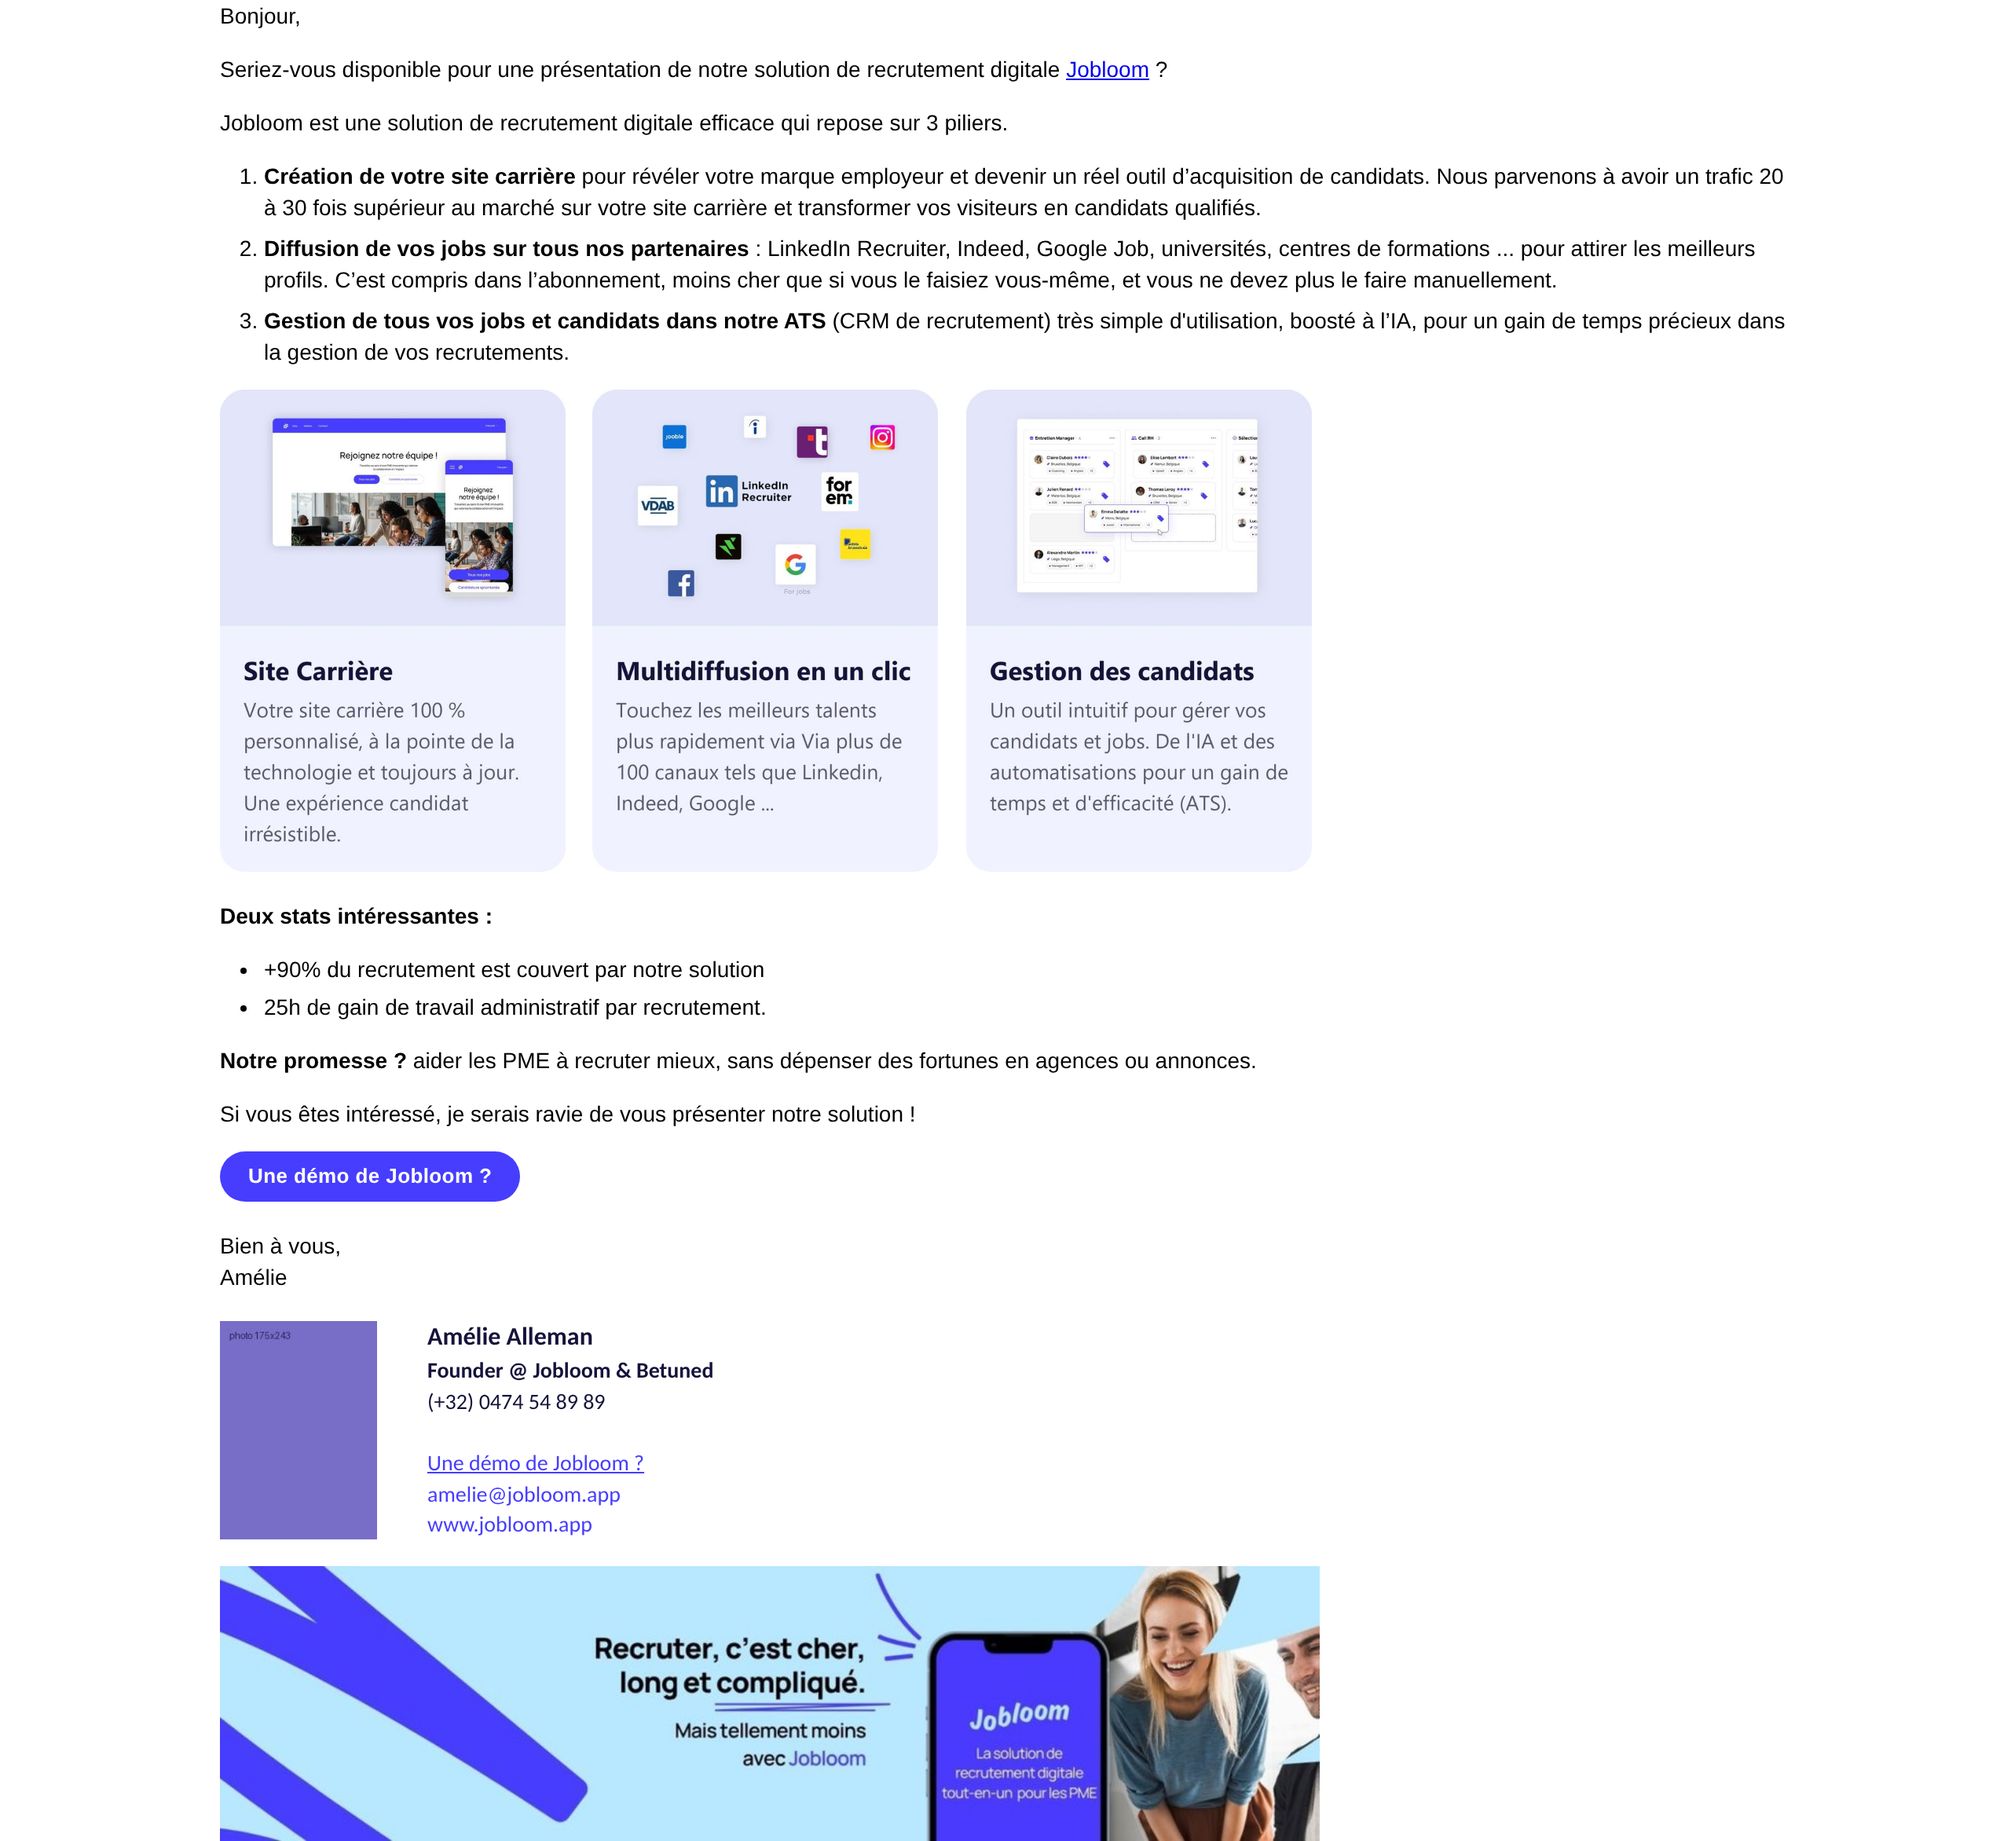
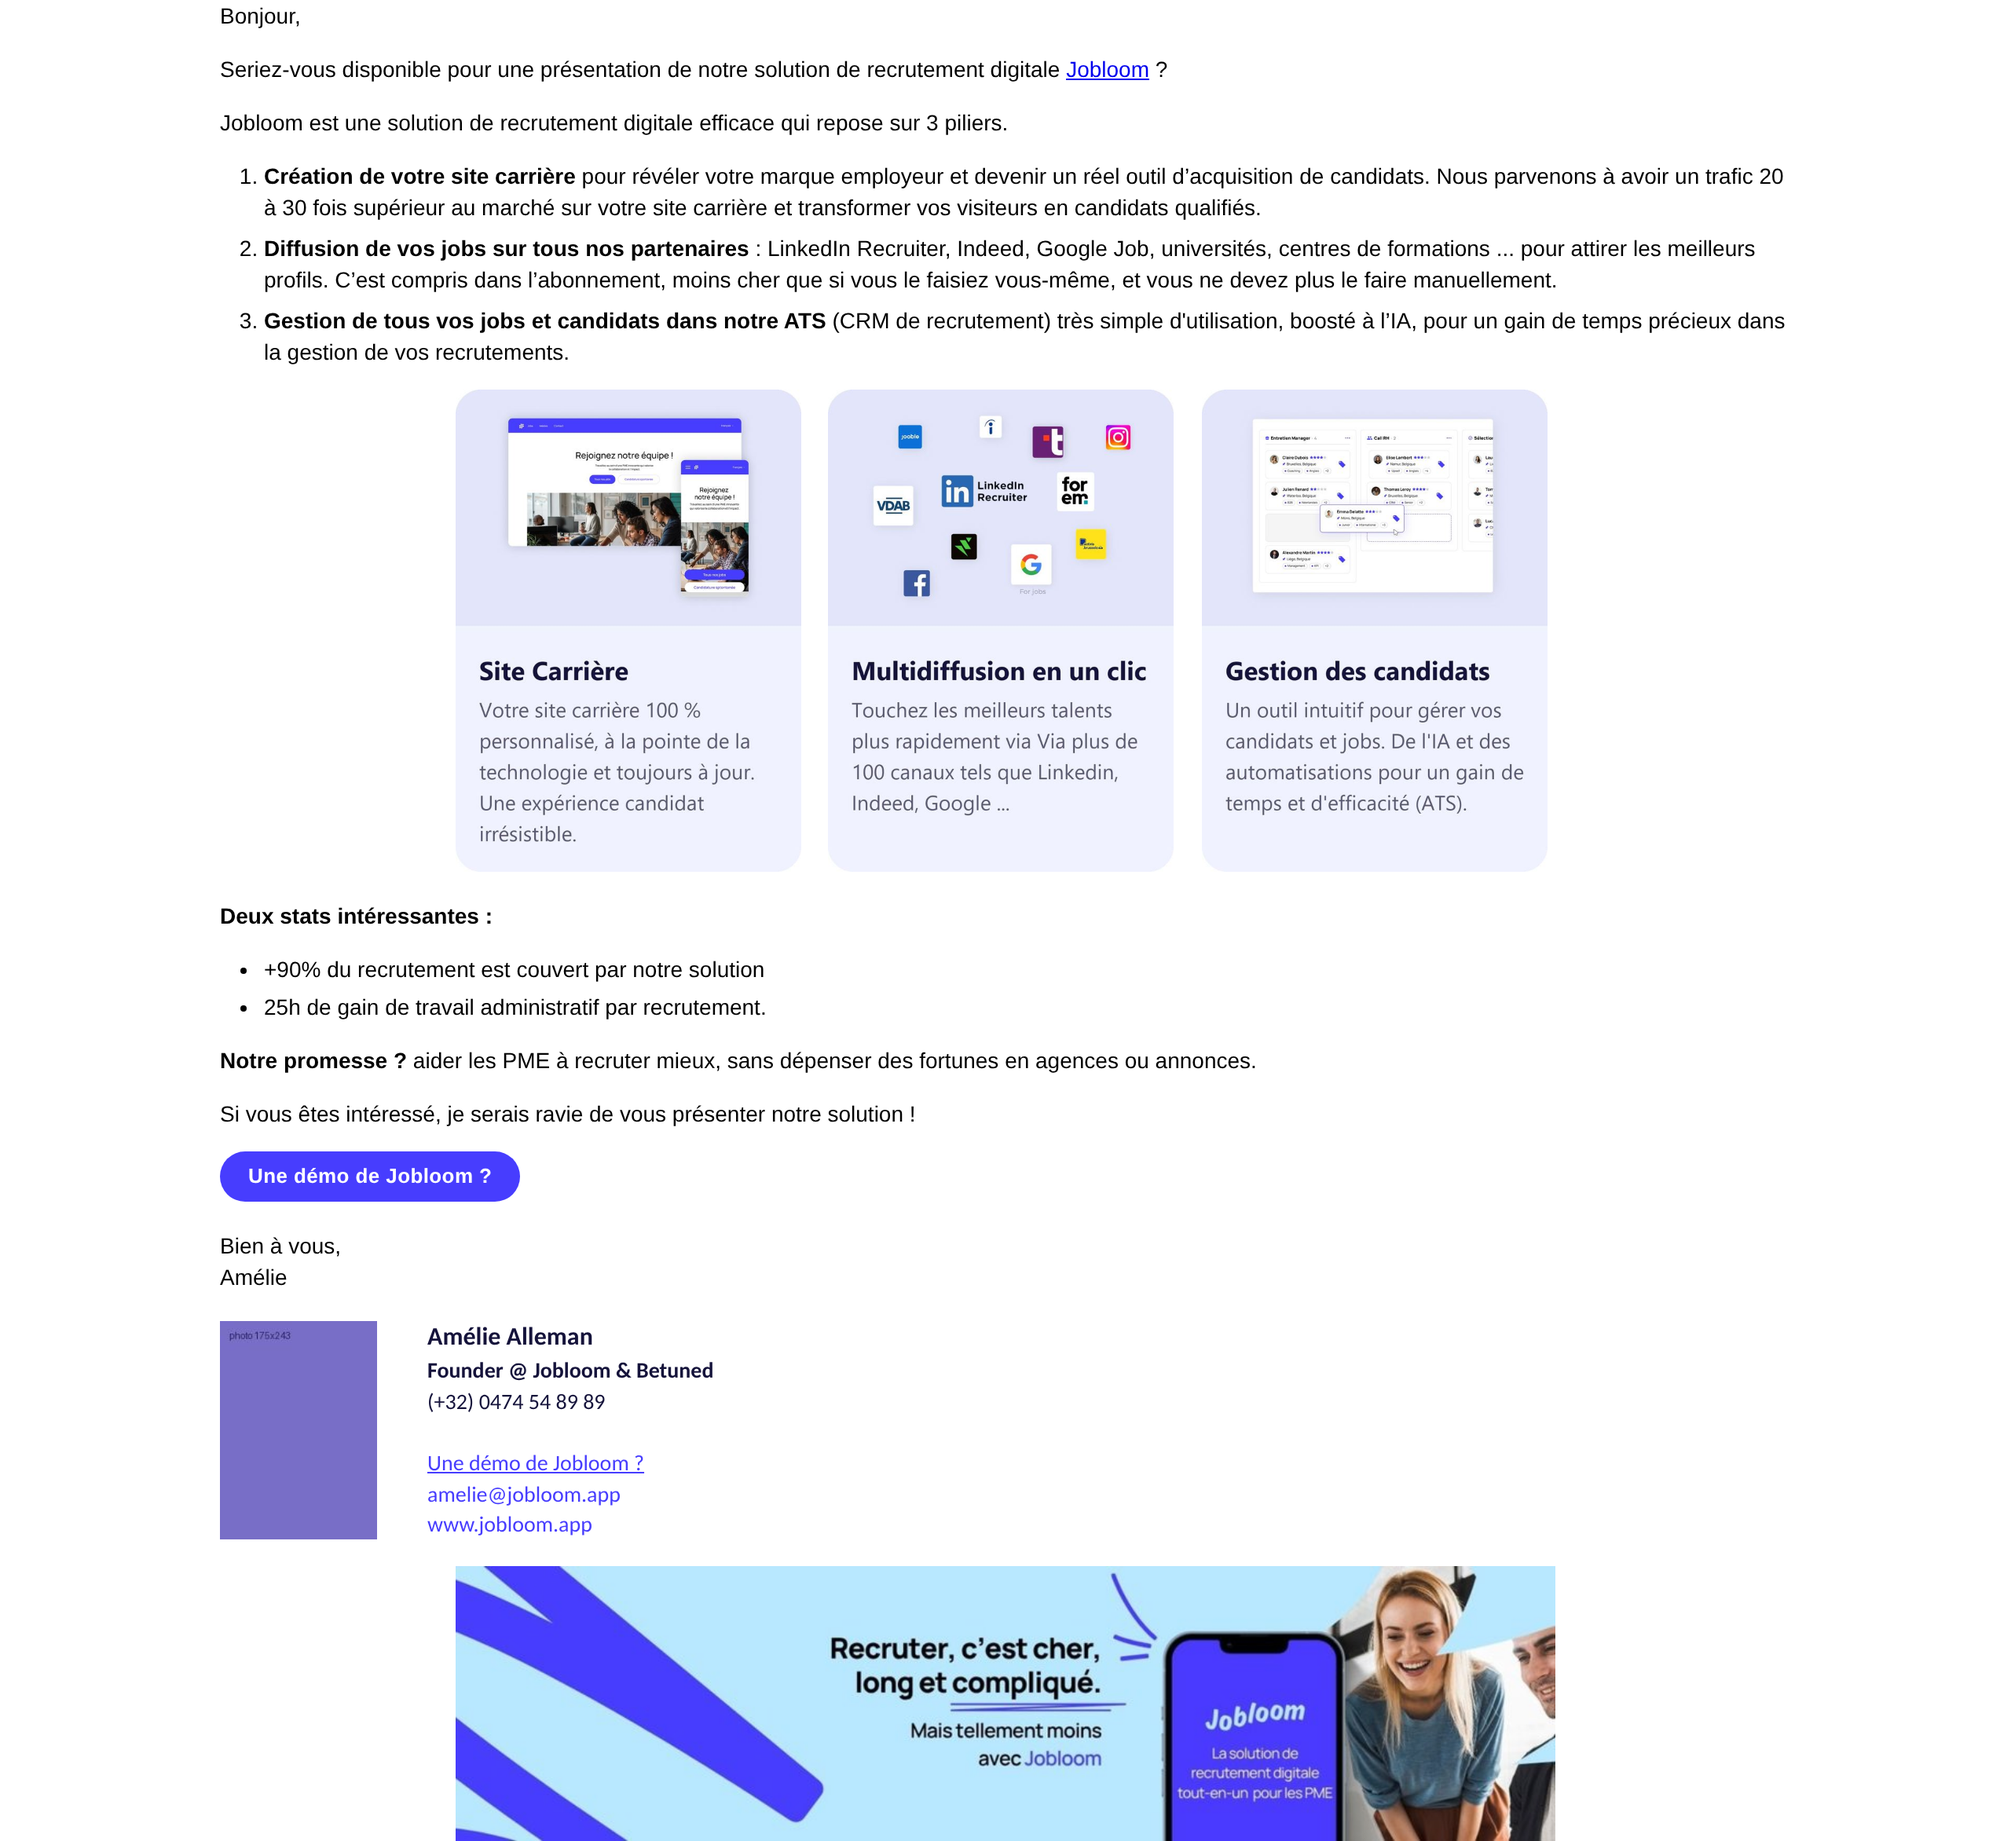
Email Amélie : images centrées, marges égales à gauche et à droite
Claude-Session: https://claude.ai/code/session_01XTeiUwKp5X2MxE8FSKHjU9

Changed region(s): [[0.0938, 0.1869, 0.7812, 0.4672], [0.0938, 0.8409, 0.7812, 1.0]]

diff --git a/email-livrable/email_1st_Amelie_final.html b/email-livrable/email_1st_Amelie_final.html
@@ -39,7 +39,7 @@ li{margin-left:0 !important;}</style>
 <li style="margin:0 0 6px 0"><b>Diffusion de vos jobs sur tous nos partenaires&nbsp;</b>: LinkedIn Recruiter, Indeed, Google Job, universités, centres de formations ... pour attirer les meilleurs profils. C’est compris dans l’abonnement, moins cher que si vous le faisiez vous-même, et vous ne devez plus le faire manuellement.</li>
 <li style="margin:0"><b>Gestion de tous vos jobs et candidats dans notre ATS</b> (CRM de recrutement) très simple d'utilisation, boosté à l’IA, pour un gain de temps précieux dans la gestion de vos recrutements.</li>
 </ol>
-<table role="presentation" class="cards" cellpadding="0" cellspacing="0" border="0" width="100%" style="border-collapse:collapse;width:100%;max-width:700px;margin:4px 0 18px 0"><tr><td class="cardtd" width="33%" valign="top" style="width:33.33%;padding:0 8px 0 0"><a href="https://www.jobloom.app/" style="text-decoration:none"><!--[if mso]><img src="https://jobloom-landing-pages-massimoharnisfeger-hues-projects.vercel.app/signature/pilier-1.jpg" width="220" height="307" alt="Site Carrière" style="display:block;width:220px;height:307px;border:0"><![endif]--><!--[if !mso]><!--><img src="https://jobloom-landing-pages-massimoharnisfeger-hues-projects.vercel.app/signature/pilier-1.jpg" width="660" height="921" alt="Site Carrière" style="display:block;width:100%;max-width:220px;height:auto;border:0"><!--<![endif]--></a></td><td class="cardtd" width="33%" valign="top" style="width:33.33%;padding:0 4px"><a href="https://www.jobloom.app/" style="text-decoration:none"><!--[if mso]><img src="https://jobloom-landing-pages-massimoharnisfeger-hues-projects.vercel.app/signature/pilier-2.jpg" width="220" height="307" alt="Multidiffusion en un clic" style="display:block;width:220px;height:307px;border:0"><![endif]--><!--[if !mso]><!--><img src="https://jobloom-landing-pages-massimoharnisfeger-hues-projects.vercel.app/signature/pilier-2.jpg" width="660" height="921" alt="Multidiffusion en un clic" style="display:block;width:100%;max-width:220px;height:auto;border:0"><!--<![endif]--></a></td><td class="cardtd" width="33%" valign="top" style="width:33.33%;padding:0 0 0 8px"><a href="https://www.jobloom.app/" style="text-decoration:none"><!--[if mso]><img src="https://jobloom-landing-pages-massimoharnisfeger-hues-projects.vercel.app/signature/pilier-3.jpg" width="220" height="307" alt="Gestion des candidats" style="display:block;width:220px;height:307px;border:0"><![endif]--><!--[if !mso]><!--><img src="https://jobloom-landing-pages-massimoharnisfeger-hues-projects.vercel.app/signature/pilier-3.jpg" width="660" height="921" alt="Gestion des candidats" style="display:block;width:100%;max-width:220px;height:auto;border:0"><!--<![endif]--></a></td></tr></table>
+<table role="presentation" class="cards" cellpadding="0" cellspacing="0" border="0" width="100%" align="center" style="border-collapse:collapse;width:100%;max-width:700px;margin:4px auto 18px auto"><tr><td class="cardtd" width="33%" valign="top" style="width:33.33%;padding:0 8px 0 0"><a href="https://www.jobloom.app/" style="text-decoration:none"><!--[if mso]><img src="https://jobloom-landing-pages-massimoharnisfeger-hues-projects.vercel.app/signature/pilier-1.jpg" width="220" height="307" alt="Site Carrière" style="display:block;width:220px;height:307px;border:0"><![endif]--><!--[if !mso]><!--><img src="https://jobloom-landing-pages-massimoharnisfeger-hues-projects.vercel.app/signature/pilier-1.jpg" width="660" height="921" alt="Site Carrière" style="display:block;width:100%;max-width:220px;height:auto;border:0"><!--<![endif]--></a></td><td class="cardtd" width="33%" valign="top" style="width:33.33%;padding:0 4px"><a href="https://www.jobloom.app/" style="text-decoration:none"><!--[if mso]><img src="https://jobloom-landing-pages-massimoharnisfeger-hues-projects.vercel.app/signature/pilier-2.jpg" width="220" height="307" alt="Multidiffusion en un clic" style="display:block;width:220px;height:307px;border:0"><![endif]--><!--[if !mso]><!--><img src="https://jobloom-landing-pages-massimoharnisfeger-hues-projects.vercel.app/signature/pilier-2.jpg" width="660" height="921" alt="Multidiffusion en un clic" style="display:block;width:100%;max-width:220px;height:auto;border:0"><!--<![endif]--></a></td><td class="cardtd" width="33%" valign="top" style="width:33.33%;padding:0 0 0 8px"><a href="https://www.jobloom.app/" style="text-decoration:none"><!--[if mso]><img src="https://jobloom-landing-pages-massimoharnisfeger-hues-projects.vercel.app/signature/pilier-3.jpg" width="220" height="307" alt="Gestion des candidats" style="display:block;width:220px;height:307px;border:0"><![endif]--><!--[if !mso]><!--><img src="https://jobloom-landing-pages-massimoharnisfeger-hues-projects.vercel.app/signature/pilier-3.jpg" width="660" height="921" alt="Gestion des candidats" style="display:block;width:100%;max-width:220px;height:auto;border:0"><!--<![endif]--></a></td></tr></table>
 <p style="margin:0 0 14px 0"><b>Deux stats intéressantes&nbsp;:</b></p>
 <ul class="list" style="margin:0 0 14px 0;padding-left:28px">
 <li style="margin:0 0 4px 0">+90% du recrutement est couvert par notre solution</li>
@@ -72,9 +72,9 @@ li{margin-left:0 !important;}</style>
 </td>
 </tr>
 </table>
-<table role="presentation" cellpadding="0" cellspacing="0" border="0" width="100%" style="border-collapse:collapse;width:100%;margin:16px 0 0 0"><tr><td align="left" style="padding:0"><a href="https://www.jobloom.app/agenda" style="text-decoration:none">
+<table role="presentation" cellpadding="0" cellspacing="0" border="0" width="100%" style="border-collapse:collapse;width:100%;margin:16px 0 0 0"><tr><td align="center" style="padding:0"><a href="https://www.jobloom.app/agenda" style="text-decoration:none">
 <!--[if mso]><img src="https://jobloom-landing-pages-massimoharnisfeger-hues-projects.vercel.app/signature/banniere-jobloom.jpg" width="700" height="175" alt="Recruter, c'est cher, long et compliqué. Mais tellement moins avec Jobloom" style="display:block;width:700px;height:175px;border:0"><![endif]-->
-<!--[if !mso]><!--><img src="https://jobloom-landing-pages-massimoharnisfeger-hues-projects.vercel.app/signature/banniere-jobloom.jpg" width="1000" height="250" alt="Recruter, c'est cher, long et compliqué. Mais tellement moins avec Jobloom" style="display:block;width:100%;max-width:700px;height:auto;border:0"><!--<![endif]-->
+<!--[if !mso]><!--><img src="https://jobloom-landing-pages-massimoharnisfeger-hues-projects.vercel.app/signature/banniere-jobloom.jpg" width="1000" height="250" alt="Recruter, c'est cher, long et compliqué. Mais tellement moins avec Jobloom" style="display:block;width:100%;max-width:700px;height:auto;border:0;margin:0 auto"><!--<![endif]-->
 </a></td></tr></table>
 </div>
 <!--[if mso]></td></tr></table><![endif]-->
